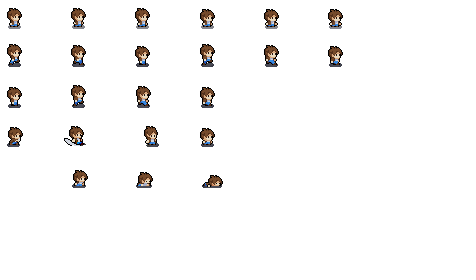
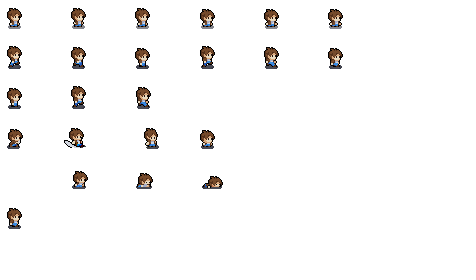
fix player

diff --git a/src/entities/Player.java b/src/entities/Player.java
@@ -24,12 +24,14 @@ public class Player extends Entity {
     private boolean left, up, right, down,jump;
     private float playerSpeech = 1.0f;
     private int[][] lvlData;
+    // (0,0) -> (7,8)
     private float xDrawOffset = 7 * Game.SCALE;
-    private float yDrawOffSet= 9 * Game.SCALE;
-    private float airSpeed=0f;
-    private float gravity= 0.04f* Game.SCALE;
+    private float yDrawOffSet= 8 * Game.SCALE;
+    //Jump, Gravity
+    private float airSpeed = 0f;
+    private float gravity = 0.04f * Game.SCALE; //lower gravity => higher jump
     private float jumpSpeed= -2.25f* Game.SCALE;
-    private float fallSpeedAfterCollision= 0.5f * Game.SCALE;
+    private float fallSpeedAfterCollision= 0.5f * Game.SCALE; //in case player hit roof
     private boolean inAir= false;
 
     //StatusBarUI
@@ -60,7 +62,7 @@ public class Player extends Entity {
         super(x,y, width, height);
         this.playing = playing;
         loadAnimations();
-        initHitbox(x,y,15*Game.SCALE, 9*Game.SCALE);
+        initHitbox(x,y,15 * Game.SCALE, 18 * Game.SCALE);
         initAttackBox();
     }
 
@@ -104,7 +106,7 @@ public class Player extends Entity {
 
     public void render(Graphics g, int lvlOffset) {
         g.drawImage(characBoy[playerAction][aniIndex], (int)(hitbox.x - xDrawOffset) -lvlOffset + flipX, (int)(hitbox.y - yDrawOffSet), width * flipW, height, null);
-        drawHitbox(g,lvlOffset);
+        //drawHitbox(g,lvlOffset);
         drawAttackbox(g, lvlOffset);
         drawUI(g);
     }
@@ -136,18 +138,22 @@ public class Player extends Entity {
     public void setAnimations() {
 
         int startAni = playerAction;
-
+        //Moving
         if(moving) {
             playerAction = RUNNING;
         } else {
             playerAction = IDLE;
         }
+
+        //Jumping
         if(inAir){
             if(airSpeed<0)
                 playerAction = JUMP;
             else
-                playerAction = IDLE;
+                playerAction = FALLING;
         }
+
+        //Attacking
         if (attacking) {
             playerAction = ATTACK;
         }
@@ -162,8 +168,9 @@ public class Player extends Entity {
     public void updatePos() {
         moving = false;
 
-        if(jump)
+        if(jump) {
             jump();
+        }
 
         //if (!left && !right && !inAir)
           //  return;
@@ -179,6 +186,7 @@ public class Player extends Entity {
 
         if (left) {
             xSpeed -= playerSpeech;
+            //say moving is true if it can move somewhere
             flipX = 116;
             flipW = -1;
         }
@@ -198,22 +206,24 @@ public class Player extends Entity {
             if(CanMoveHere(hitbox.x, hitbox.y+ airSpeed, hitbox.width, hitbox.height, lvlData)){
                 hitbox.y += airSpeed;
                 airSpeed += gravity;
+                //gravity < 0 => slow down because going up
+                //going down => gravity increase
                 updateXPos(xSpeed);
             }
             else{
                 hitbox.y= GetEntityYPosUnderRoofOrAboveFloor(hitbox, airSpeed);
-                if(airSpeed>0)
+                if(airSpeed>0) {
                     resetInAir();
-                else
-                    airSpeed= fallSpeedAfterCollision;
+                }
+                else {
+                    airSpeed = fallSpeedAfterCollision;
+                }
                 updateXPos(xSpeed);
             }
-
-        }else
+        }else { //if not in air => check only x position
             updateXPos(xSpeed);
+        }
         moving=true;
-
-
     }
 
     private void jump() {
@@ -231,8 +241,7 @@ public class Player extends Entity {
     private void updateXPos(float xSpeed) {
         if(CanMoveHere(hitbox.x +xSpeed, hitbox.y, hitbox.width, hitbox.height, lvlData)){
             hitbox.x+=xSpeed;
-        }
-        else{
+        } else{ //collision with something
             hitbox.x= GetEntityXPosNextToWall(hitbox, xSpeed);
         }
     }
@@ -249,7 +258,7 @@ public class Player extends Entity {
     private void loadAnimations() {
         BufferedImage img = LoadSave.GetSpriteAtlas(LoadSave.PLAYER_ATLAS);
 
-        characBoy = new BufferedImage[5][6];
+        characBoy = new BufferedImage[6][6];
         for (int j = 0; j < characBoy.length; j++ ) {
             for (int i = 0; i < characBoy[j].length; i++) {
                 characBoy[j][i] = img.getSubimage(i * 64, j * 40, 64, 40);

diff --git a/src/utilz/HelpMethods.java b/src/utilz/HelpMethods.java
@@ -7,44 +7,53 @@ import Main.Game;
 
 public class HelpMethods {
     public static boolean CanMoveHere(float x, float y, float width, float height, int [][]lvlData){
-        if(!IsSolid(x,y,lvlData))
-            if(!IsSolid(x+width,y+height,lvlData))
-                if(!IsSolid(x+width,y,lvlData))
-                    if(!IsSolid(x,y+height,lvlData))
+        if(!IsSolid(x,y,lvlData)) {
+            if (!IsSolid(x + width, y + height, lvlData)) {
+                if (!IsSolid(x + width, y, lvlData)) {
+                    if (!IsSolid(x, y + height, lvlData)) {
                         return true;
+                    }
+                }
+            }
+        }
         return false;
     }
 
     private static boolean IsSolid(float x, float y, int [][] lvlData){
         int maxWidth = lvlData[0].length * Game.TILES_SIZE;
 
-        if(x<0 || x>= maxWidth)
+        if(x < 0 || x >= maxWidth)
             return true;
-        if(y<0 || y>= Game.GAME_HEIGHT)
+        if(y < 0 || y>= Game.GAME_HEIGHT)
             return true;
 
-        float xIndex= x/ Game.TILES_SIZE;
-        float yIndex= y/ Game.TILES_SIZE;
+        float xIndex= x / Game.TILES_SIZE;
+        float yIndex= y / Game.TILES_SIZE;
 
         return IsTileSolid((int)xIndex, (int)yIndex, lvlData);
     }
 
     public static boolean IsTileSolid(int xTile, int yTile, int[][] lvlData){
         int value =lvlData[(int)yTile][(int)xTile];
-        if (value>=200 || value <0 || value!=19)
+        if (value >= 200 || value < 0 || value != 19 && value != 26 && value != 16 && value != 38) {
             return true;
+        }
         return false;
+        //if = 19 => return false because transparent & it not solid
     }
 
     public static float GetEntityXPosNextToWall(Rectangle2D.Float hitbox, float xSpeed){
-        int currentTile=(int)(hitbox.x/ Game.TILES_SIZE);
-        if(xSpeed>0){
+        int currentTile=(int)(hitbox.x / Game.TILES_SIZE);
+        if(xSpeed > 0){
+            //Right
             int tileXPos= currentTile * Game.TILES_SIZE;
             int xOffset= (int)(Game.TILES_SIZE- hitbox.width);
-            return tileXPos + xOffset -1  ;
+            return tileXPos + xOffset + 1  ; //so it not overlapping
 
-        }else
+        } else {
+            //Left
             return currentTile * Game.TILES_SIZE;
+        }
 
 
 
@@ -53,19 +62,23 @@ public class HelpMethods {
     public static float GetEntityYPosUnderRoofOrAboveFloor(Rectangle2D.Float hitbox, float airSpeed){
         int currentTile=(int)(hitbox.y/ Game.TILES_SIZE);
         if(airSpeed >0){
+            //Going down (Falling - touch floor)
             int tileYPos = currentTile * Game.TILES_SIZE;
-            //int yOffset= (int)(Game.TILES_SIZE- hitbox.height);
-            return tileYPos    ;
-        }else{
+            int yOffset= (int)(2 * Game.TILES_SIZE - hitbox.height);
+            return tileYPos + yOffset - 1;
+        } else {
+            //Jumping
             return currentTile * Game.TILES_SIZE;
 
         }
     }
 
     public static boolean IsEntityOnFloor(Rectangle2D.Float hitbox, int [][] lvlData){
-        if(!IsSolid(hitbox.x, hitbox.y +hitbox.height +1, lvlData))
-            if(!IsSolid(hitbox.x+ hitbox.width, hitbox.y, lvlData))
+        //Check the pixel below bottom-left & bottom right
+        if(!IsSolid(hitbox.x, hitbox.y + hitbox.height + 1, lvlData)) {
+            if (!IsSolid(hitbox.x + hitbox.width, hitbox.y + hitbox.height + 1, lvlData))
                 return false;
+        }
         return true;
     }
 

diff --git a/src/utilz/Constants.java b/src/utilz/Constants.java
@@ -125,6 +125,7 @@ public class Constants {
         public static final int JUMP = 2;
         public static final int ATTACK = 3;
         public static final int DEAD = 4;
+        public static final int FALLING = 5;
 
         public static int GetSpriteAmount(int player_action) {
             switch (player_action) {
